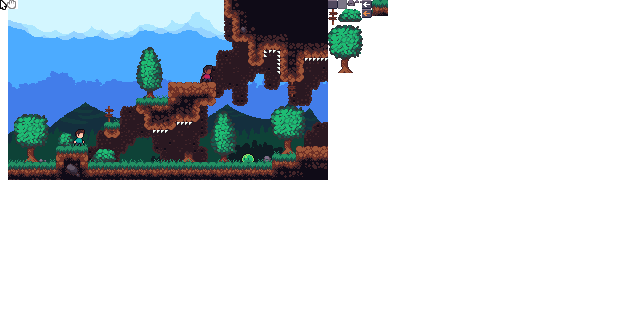
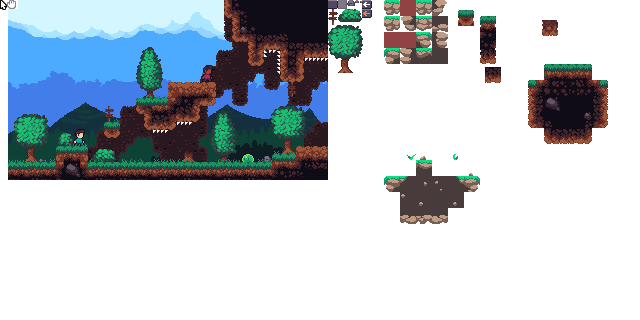
Basic auto tile painter

diff --git a/tile/src/mainScreen.cpp b/tile/src/mainScreen.cpp
@@ -67,7 +67,7 @@ void MainScreen::handleAddSpritesToLayersDebug()
 		Sprite({24,13}, {338, 9}), // bush
 		Sprite({35,48}, {328, 25}), // tree
 		Sprite({7,3}, {355, 0}), // mini rock
-		Sprite({16, 16}, {372, 0}, true) // tile
+		Sprite({16, 16}, {384, 0}, true, {384, 0}) // tile
 	};
 
 	if (wasKeyPressedThisFrame(SDL_SCANCODE_1))
@@ -319,11 +319,6 @@ void MainScreen::render()
 
 	_addSpriteButton.render(_uiTexture);
 
-	if (s_tilePlayground.hasSpriteInHand())
-	{
-		renderSprite(s_tilePlayground.getSpriteInHand());
-	}
-
 	for (SpritePreviewerButtonPair& pair : s_spritePreviewerButtons)
 	{
 		pair.first.render();
@@ -332,7 +327,35 @@ void MainScreen::render()
 
 	for (TilePlayground::PlaceableSprite& placeableSprite : s_tilePlayground._placedSprites)
 	{
-		renderSprite(placeableSprite.sprite);
+		Sprite& sprite = placeableSprite.sprite;
+
+		if (sprite.isTile)
+		{
+			//								  TOP    LEFT   RIGHT  BOTTOM
+			static int8_t neighborOffsets[8] = { 0,-1,  -1,0,  1,0,   0,1 };
+			int8_t neighborMask = 0;
+
+			for (uint8_t j = 0; j < 4; ++j)
+			{
+				float neighborX = sprite.position.x + neighborOffsets[j * 2] * sprite.size.x;
+				float neighborY = sprite.position.y + neighborOffsets[j * 2 + 1] * sprite.size.y;
+				for (TilePlayground::PlaceableSprite& potentialTile : s_tilePlayground._placedSprites)
+				{
+					if (potentialTile.sprite.isTile && potentialTile.layer == placeableSprite.layer 
+						&& (potentialTile.sprite.position == Vec2(neighborX, neighborY)))
+					{
+						neighborMask |= 1 << j;
+					}
+				}
+			}
+
+			sprite.setTileOffsetFromMask(neighborMask);
+			renderSprite(sprite);
+		}
+		else
+		{
+			renderSprite(sprite);
+		}
 	}
 
 	_undoButton.render();

diff --git a/tile/src/core/spriteHandler.h b/tile/src/core/spriteHandler.h
@@ -2,6 +2,7 @@
 #include <stdint.h>
 #include "lib.h"
 #include "input.h"
+#include "log.h"
 
 struct SDL_Texture;
 struct SDL_Rect;
@@ -27,6 +28,7 @@ struct Sprite
 	IVec2 offset;
 	
 	bool isTile;
+	IVec2 startingTileOffset;
 
 	bool isValid()
 	{
@@ -41,8 +43,20 @@ struct Sprite
 		isTile = false;
 	}
 
+	void setTileOffsetFromMask(uint8_t neighborMask)
+	{
+		D_ASSERT(isTile, "Trying to assign a tile offset for a sprite that's not a tile");
+
+		uint8_t row = neighborMask / 4;
+		uint8_t col = neighborMask % 4;
+
+		offset.x = startingTileOffset.x + col * size.x;
+		offset.y = startingTileOffset.y + row * size.y;
+	} 
+
 	Sprite() : position(0.f, 0.f), size(0, 0), offset(0, 0), isTile(false) {};
-	Sprite(const IVec2& size, const IVec2& offset, bool isTile = false) : size(size), offset(offset), isTile(isTile) {};
+	Sprite(const IVec2& size, const IVec2& offset, bool isTile = false, const IVec2& startingTileOffset = IVec2()) : 
+	size(size), offset(offset), isTile(isTile), startingTileOffset(startingTileOffset) {};
 };
 
 namespace textures
